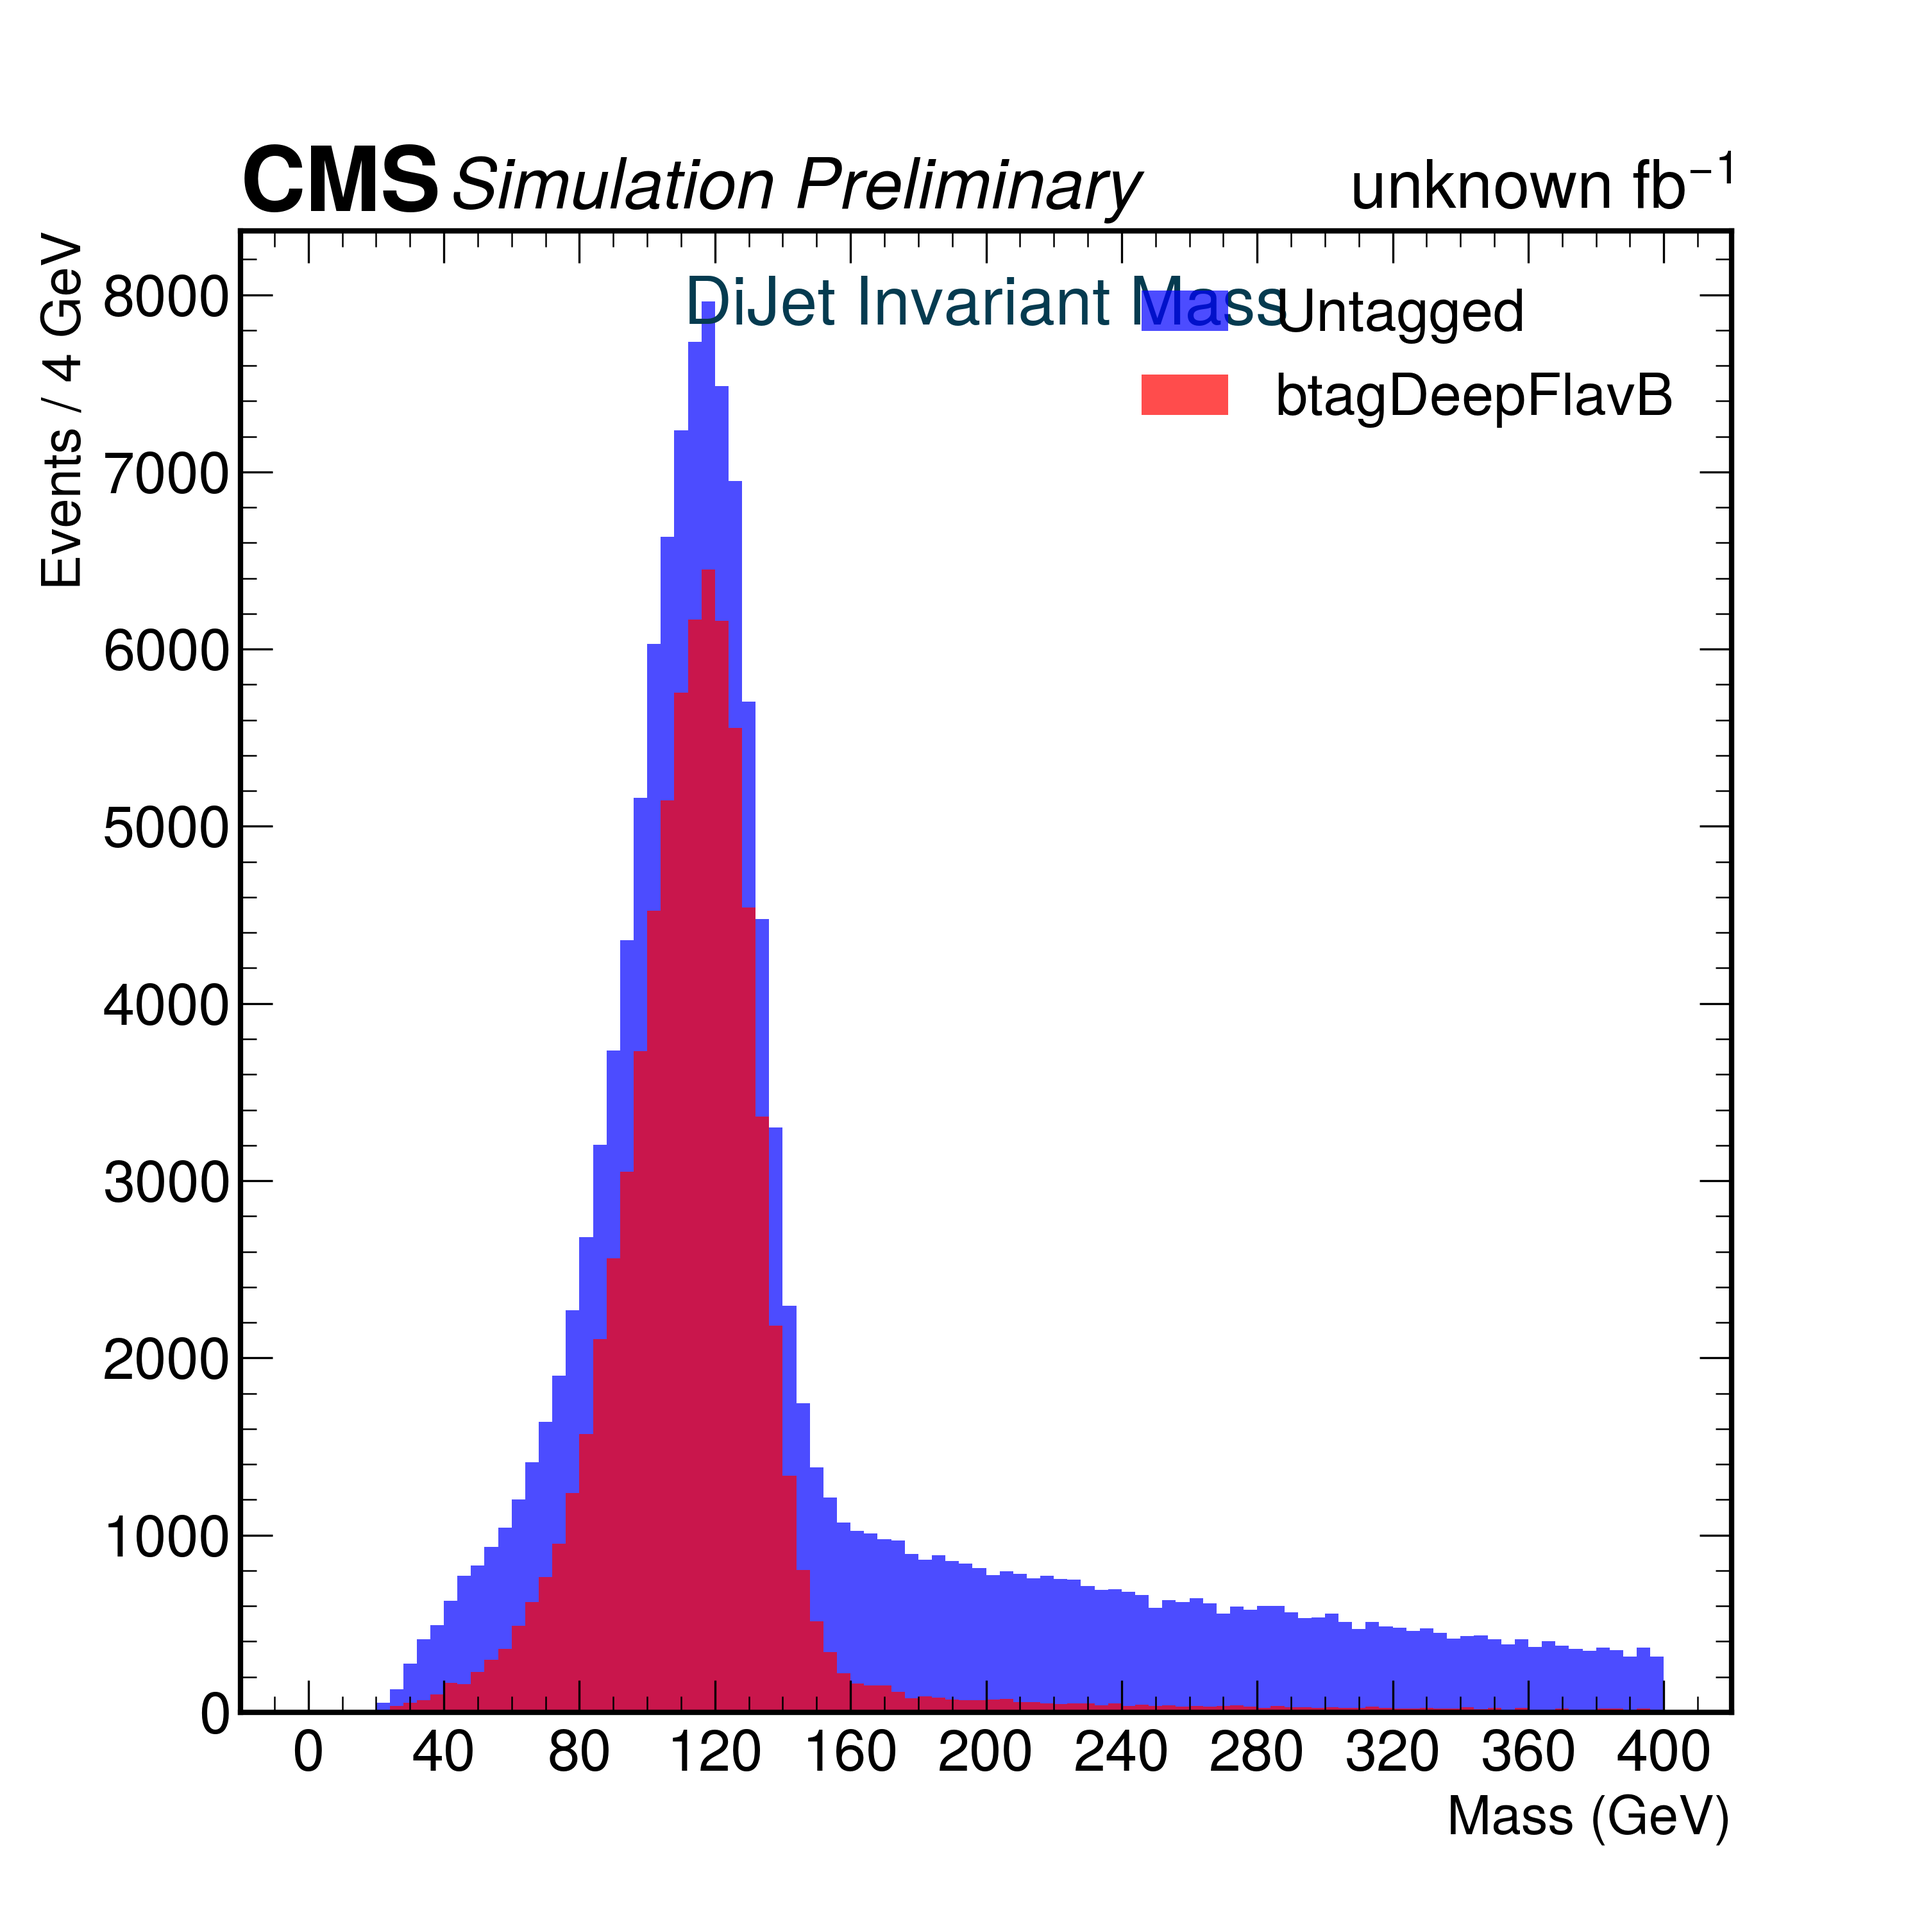
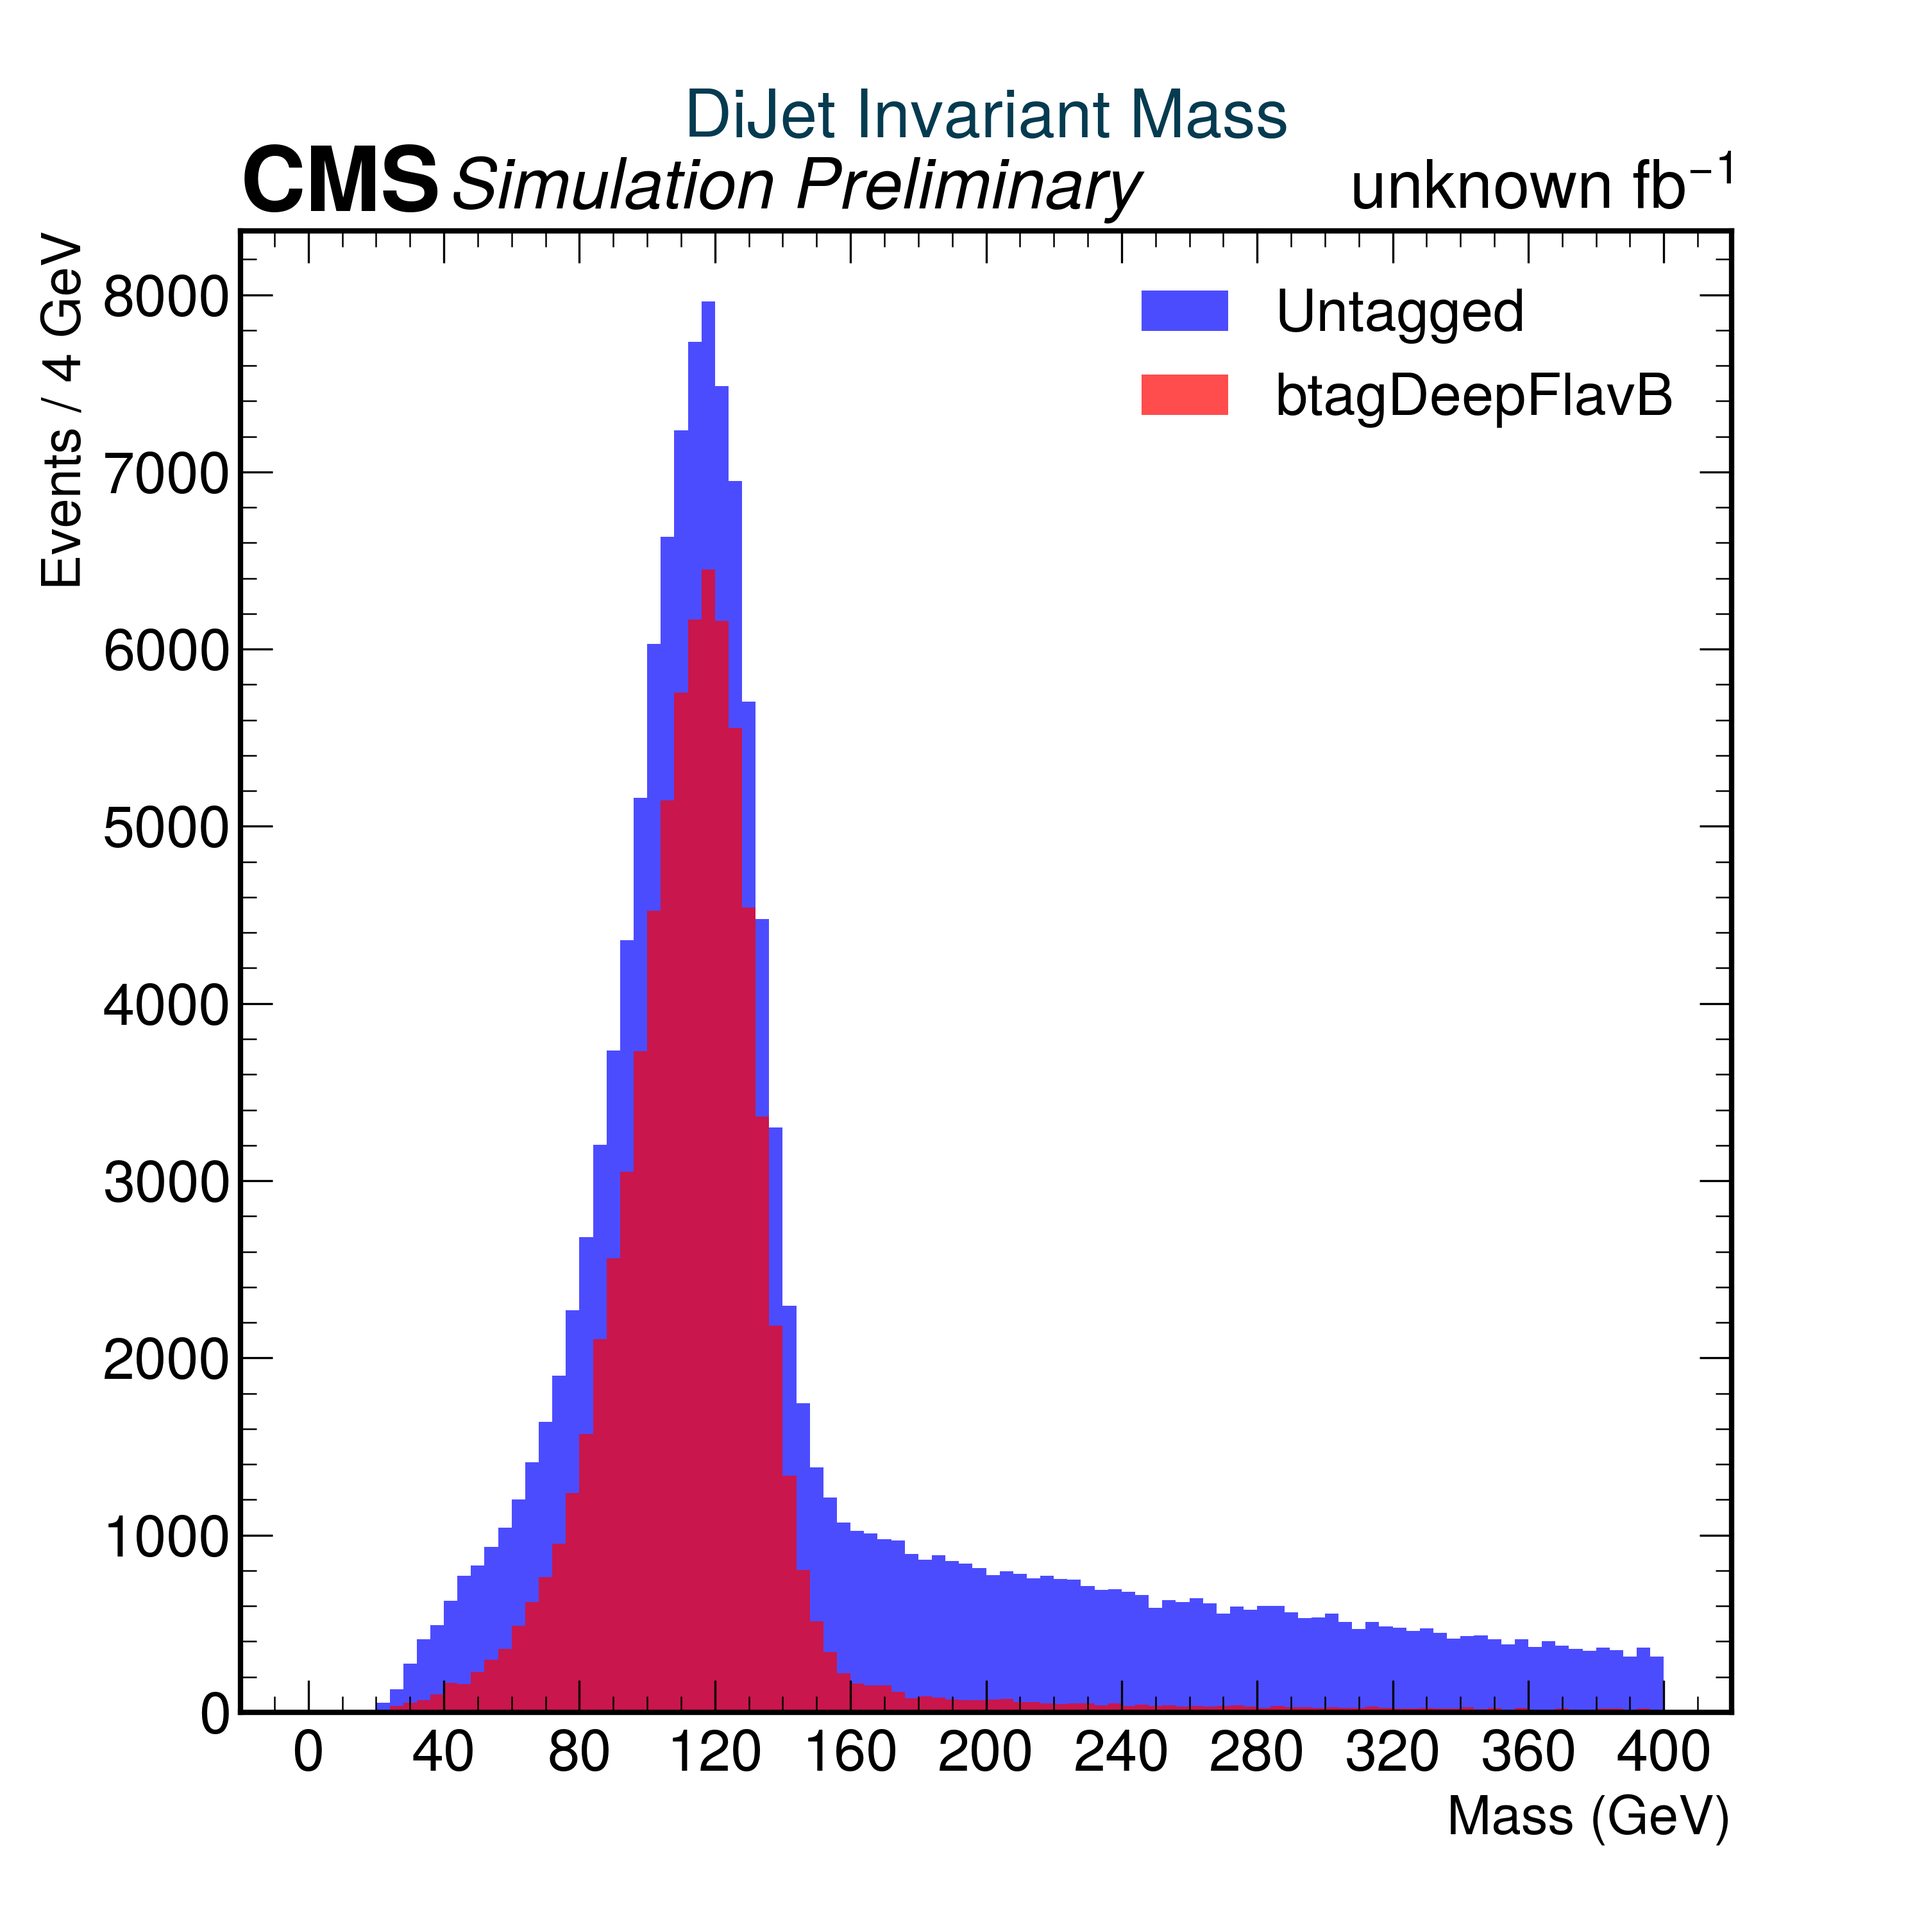
Quick Commit

diff --git a/JetKinem.py b/JetKinem.py
@@ -103,7 +103,7 @@ hep.histplot(DiJetHist["btagDeepFlavB",:],
              label=r"btagDeepFlavB",
              ax=ax
             )
-ax.set_title("DiJet Invariant Mass", y=1.0, pad = -35 , fontsize=25, color="#053B50" )
+ax.set_title("DiJet Invariant Mass", y=1.0, pad = 35 , fontsize=25, color="#053B50" )
 ax.set_xlabel("Mass (GeV)", fontsize=20)
 ax.set_ylabel(f"Events / {bin_size} GeV", fontsize=20)
 ax.set_xticks(np.arange(x_min,x_max+bin_size,bin_size*10))
